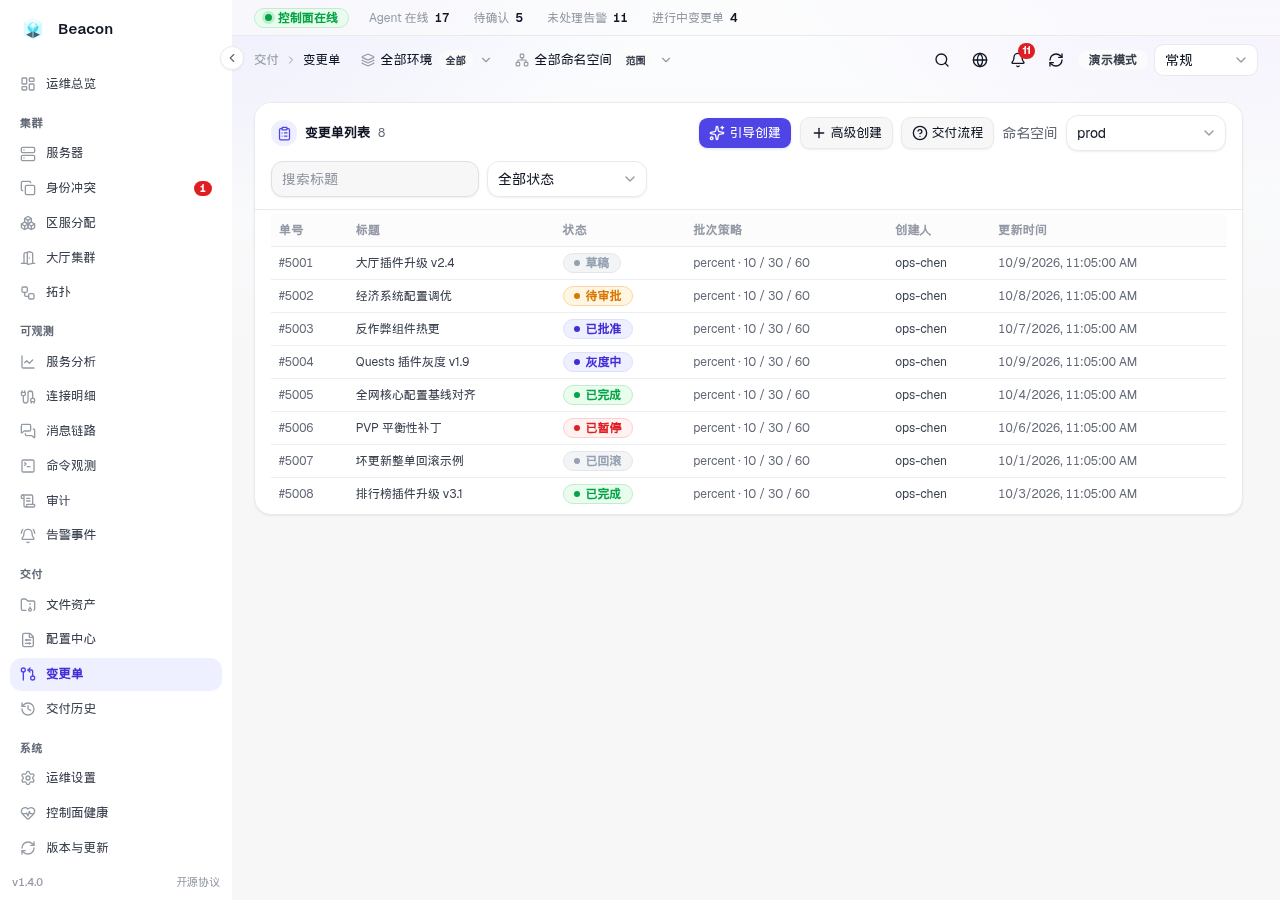
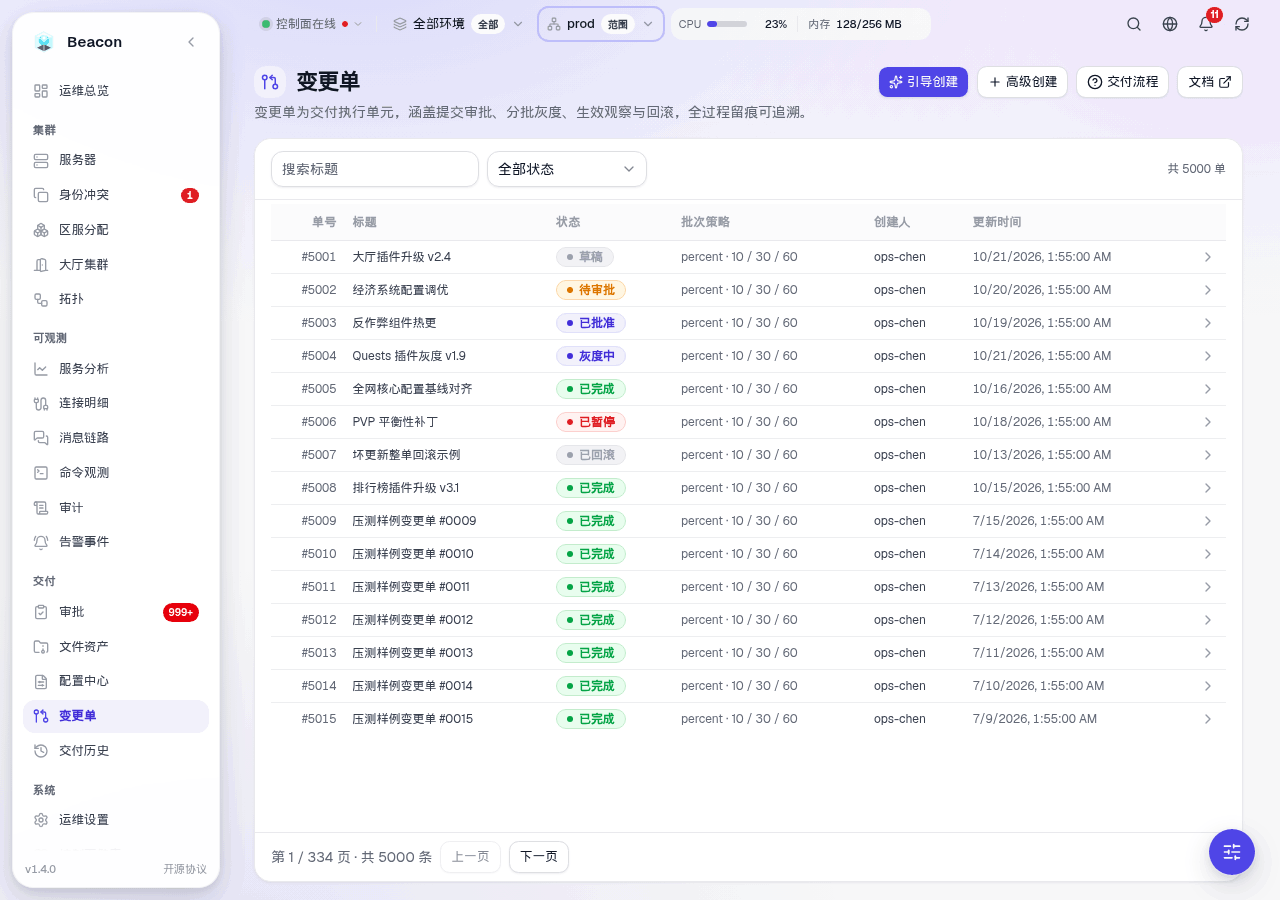
docs(readme): 界面预览改用数据密集页面并按 PNG-8 重压
原预览用的是运维总览，但该页卡片内部留白大、状态墙只露 4 行且底部整片空，
看不出系统实际承载能力。改用四个数据密到边界的页面，并统一拉满示例数据
（`mockDataVolume=xlarge`，变更单页先选 prod 范围）：

- 集群拓扑：4 小区 / 9 子服 / 10 条异常边 + 失败率标注 + 底部异常链路明细
- 服务器资产：8 张统计卡 + 逐台健康分、标签、TPS / CPU / 在线数，表格铺到视口底
- 变更单：5000 单 / 334 页，15 行覆盖草稿到已回滚七种状态与批次策略
- 审计追溯（替代原运维总览）：6 张 KPI + 7 个筛选器 + 15 行完整操作链

压缩方式从「降分辨率到 960px」改为「保持 1280×900 + 中位切分量化到 200 色」，
文字与状态色无损失，四张合计 832KB → 316KB（省 62%）。README 图注同步改为
描述当前画面。

diff --git a/README.md b/README.md
@@ -26,15 +26,15 @@
 
 演示模式截图（数据为示例数据）：
 
-| 运维总览 | 集群拓扑 |
+| 集群拓扑 | 服务器资产 |
 |---|---|
-| ![运维总览](docs/images/dashboard.png) | ![集群拓扑](docs/images/topology.png) |
-| 健康 KPI、服务器状态墙、连接流与调度概览 | BC → 小区放射链路与异常边 |
+| ![集群拓扑](docs/images/topology.png) | ![服务器资产](docs/images/servers.png) |
+| BC → 小区放射链路、失败率与异常边下钻 | 19 台服务器的健康分、标签、TPS / CPU 与在线数 |
 
-| 交付变更单 | 服务器资产 |
+| 变更单 | 审计追溯 |
 |---|---|
-| ![交付变更单](docs/images/delivery.png) | ![服务器资产](docs/images/servers.png) |
-| 变更单分批灰度、目标级回滚与交付历史 | 注册待确认、身份 / 健康与资产运维 |
+| ![交付变更单](docs/images/delivery.png) | ![审计追溯](docs/images/audits.png) |
+| 分批灰度策略、逐单状态与目标级回滚 | 操作人 / 动作 / 目标 / 结果的完整审计链路 |
 
 想自己点一遍管理台（免部署、免登录、mock 数据）：
 
